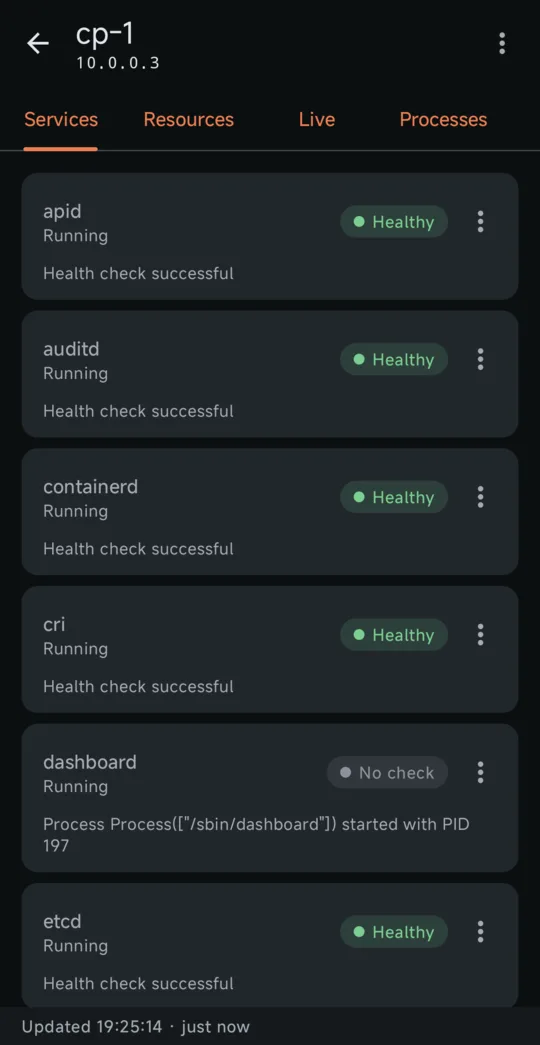
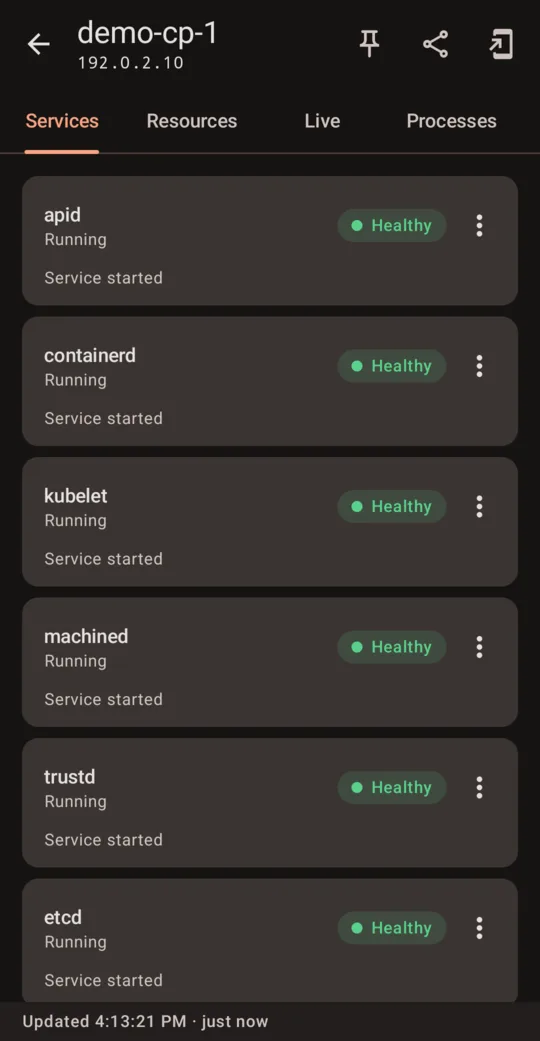
docs: the website and store screenshots from the emulator's demo walk
The seven images now come from the Screenshots workflow, so they show the demo
and can be taken again at any time. The overview and upgrade captions follow
what those two images show.

diff --git a/docs/features.html b/docs/features.html
@@ -3050,8 +3050,7 @@ kubectl label cronjob wipe-staging ichor.levis.name/trigger=false</code></pre>
                 alt="Cluster overview screen of Ichor for Talos Linux"
               />
               <figcaption>
-                <strong>Cluster overview</strong>Every node at a glance, and a
-                banner when a newer Talos is out.
+                <strong>Cluster overview</strong>Health, usage, apps and data services at a glance.
               </figcaption>
             </figure>
             <figure>
@@ -3128,8 +3127,7 @@ kubectl label cronjob wipe-staging ichor.levis.name/trigger=false</code></pre>
                 alt="Talos upgrade screen of Ichor for Talos Linux"
               />
               <figcaption>
-                <strong>Talos upgrade</strong>Your installer image with the new
-                version, after pre-flight checks.
+                <strong>Cluster upgrade</strong>Every node in a safe order, drained first, after pre-flight checks.
               </figcaption>
             </figure>
           </div>
